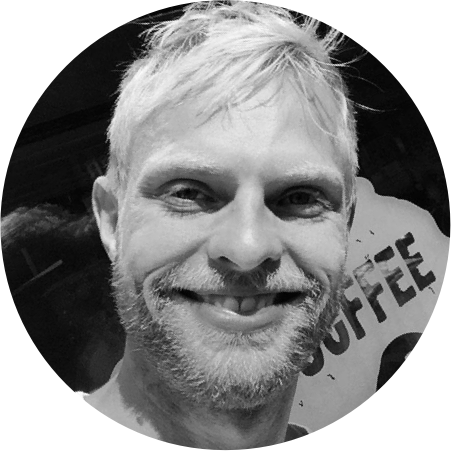
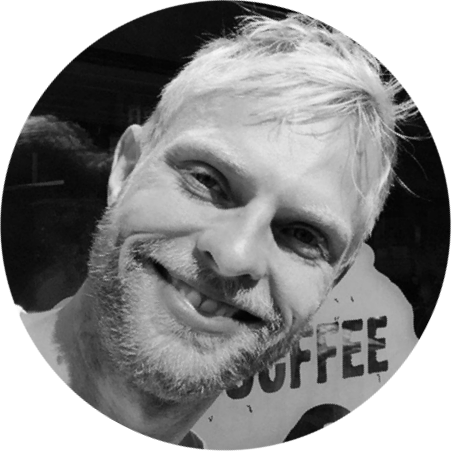
make pic tilted; make calander white; style review

diff --git a/components/InternalNavigation/index.js b/components/InternalNavigation/index.js
@@ -25,7 +25,7 @@ export default class InternalNavigation extends Component {
 		return(
 			<View style={styles.navContainer}>
 				<TouchableHighlight style={styles.navTextContainer}
-					underlayColor="#FFDD83"
+					underlayColor="grey"
 					onPress={this._setViewAndHighlight.bind(this, viewConstants.reviews)}>
 					<Text style={[styles.navTextReviews, 
 						(this.props.activeView === viewConstants.reviews) && styles.textOpaque]}>
@@ -33,7 +33,7 @@ export default class InternalNavigation extends Component {
 					</Text>
 				</TouchableHighlight>
 				<TouchableHighlight style={styles.navTextContainer}
-					underlayColor="#FFDD83"
+					underlayColor="grey"
 					onPress={this._setViewAndHighlight.bind(this, viewConstants.photos)}>
 					<Text style={[styles.navTextPhotos,
 						(this.props.activeView === viewConstants.photos) && styles.textOpaque]}>
@@ -41,7 +41,7 @@ export default class InternalNavigation extends Component {
 					</Text>
 				</TouchableHighlight>
 				<TouchableHighlight style={styles.navTextContainer}
-					underlayColor="#FFDD83"
+					underlayColor="grey"
 					onPress={this._setViewAndHighlight.bind(this, viewConstants.concerts)}>
 					<Text style={[styles.navTextConcerts,
 						(this.props.activeView === viewConstants.concerts) && styles.textOpaque]}>

diff --git a/components/Header/index.js b/components/Header/index.js
@@ -67,7 +67,9 @@ export default class Header extends Component {
 					style={styles.navBtn}
           onPress={this._handelPress.bind(this)}
 					>
-						<Image source={{uri: navBtn}} style={styles.navBtnImg} />
+						<Image
+						source={require('../../assets/images/backIcon.png')}
+						style={styles.navBtnImg} />
 					</TouchableOpacity>
 					<Text style={styles.titleText}>
 						{
@@ -80,7 +82,9 @@ export default class Header extends Component {
 						}
 					</Text>
 					<TouchableOpacity style={styles.shareBtn}>
-						<Image source={{uri: shareBtn}} style={styles.shareBtnImg} />
+						<Image
+						source={require('../../assets/images/shareAlt.png')}
+						style={styles.shareBtnImg} />
 					</TouchableOpacity>
 				</View>
 				<View style={styles.descPanel}>

diff --git a/components/HeaderBar/index.js b/components/HeaderBar/index.js
@@ -14,7 +14,7 @@ export default class HeaderBar extends Component {
     return (
       <View style={styles.container}>
         <Image
-        source={require('../../assets/images/music_star.png')}
+        source={require('../../assets/images/revuze-icon.png')}
         style={styles.musicStar}
         />
         <Image

diff --git a/components/Concerts/index.js b/components/Concerts/index.js
@@ -128,10 +128,12 @@ export default class Concerts extends Component {
 			);
 		}
 		return(
+      <View style={styles.container}>
 			<ListView
 				dataSource={this.state.dataSource}
 				renderRow={this._renderConcert.bind(this)}
 				style={styles.listView}	/>
+      </View>
 		);
 	}
 }

diff --git a/components/Artist/index.js b/components/Artist/index.js
@@ -56,6 +56,7 @@ export default class Artist extends Component {
                   />
 							case viewConstants.concerts:
 								return <Concerts 
+                calanderHeader={true}
                   navigator={this.props.navigator}
                   />
 						}
